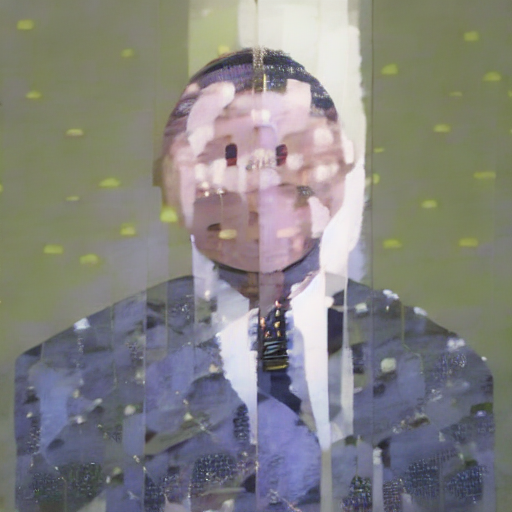
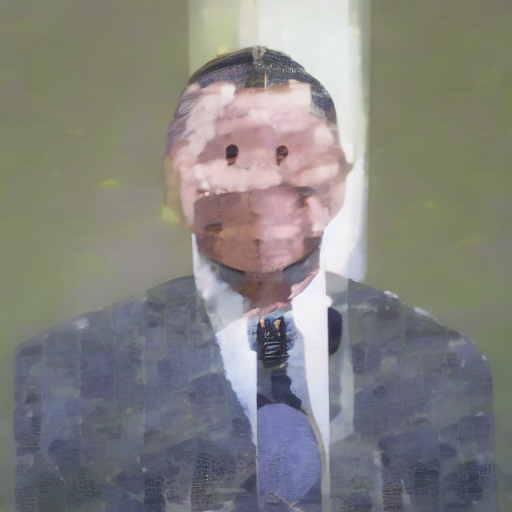
.

diff --git a/inference/img2img_style.py b/inference/img2img_style.py
@@ -278,7 +278,7 @@ if __name__ == "__main__":
 
     parser.add_argument("--ldm_config_path", type=str, default="models/ldm/stable-diffusion-v1-5/v1-inference.yaml")
     parser.add_argument("--ldm_model_path", type=str, default="models/ldm/stable-diffusion-v1-5/v1-5-pruned.safetensors")
-    parser.add_argument("--selfattn_model_path", type=str, default="models/attention/style-encoder/style_encoder_5000.safetensors")
+    parser.add_argument("--selfattn_model_path", type=str, default="models/attention/style-encoder/style_encoder_20000.safetensors")
     
     parser.add_argument("--cnt_img", type=str, default="images/inputs/cnt/cnt_1.png")
     parser.add_argument("--sty_img", type=str, default="images/inputs/sty/sty_1.png")
@@ -286,7 +286,7 @@ if __name__ == "__main__":
     parser.add_argument("--output_img", type=str, default="images/outputs/img2img_style/stylized.png")
     parser.add_argument("--prompt", type=str, default="")
     parser.add_argument("--negative_prompt", type=str, default="")
-    parser.add_argument("--guidance_scale", type=float, default=3)
+    parser.add_argument("--guidance_scale", type=float, default=3.5)
     parser.add_argument("--strength", type=float, default=0.2)
     parser.add_argument("--ddim_steps", type=int, default=100)
     parser.add_argument("--ddim_eta", type=float, default=0.0)
@@ -298,8 +298,8 @@ if __name__ == "__main__":
 """
 CUDA_VISIBLE_DEVICES=1 python inference/img2img_style.py \
   --cnt_img images/inputs/cnt/cnt_1.png \
-  --sty_img images/inputs/cnt/cnt_1.png \
-  --output_img images/outputs/img2img_style/reconstruct_test.png \
+  --sty_img images/inputs/sty/sty_1.png \
+  --output_img images/outputs/img2img_style/stylized_1.png \
   --strength 0.4 \
   --ddim_steps 100
 """
